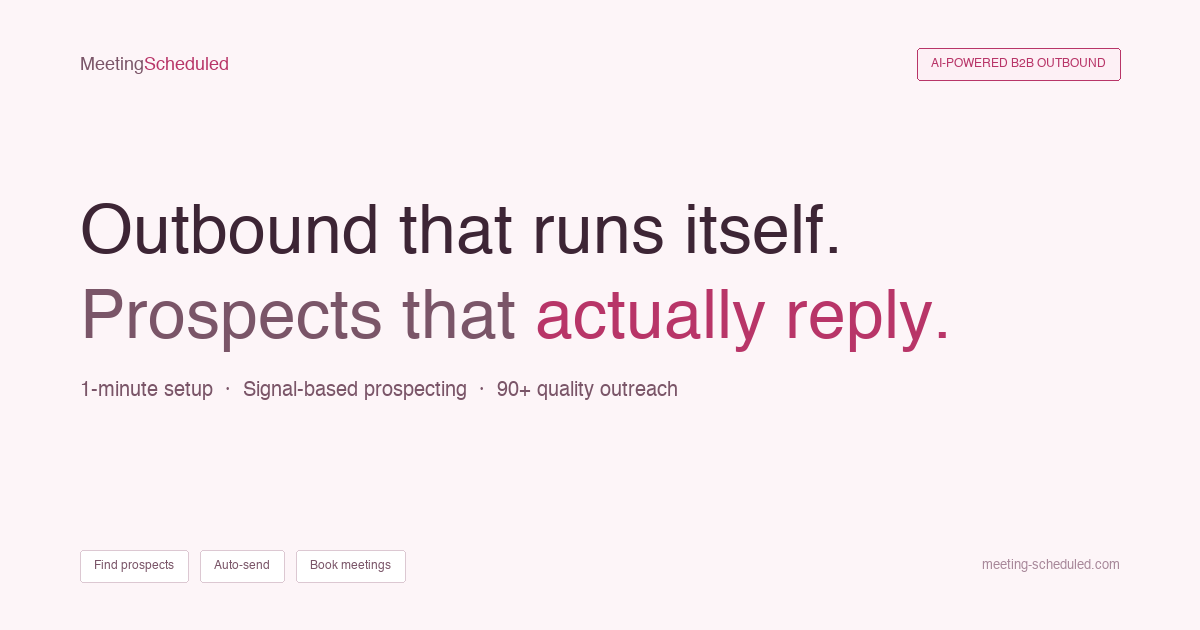
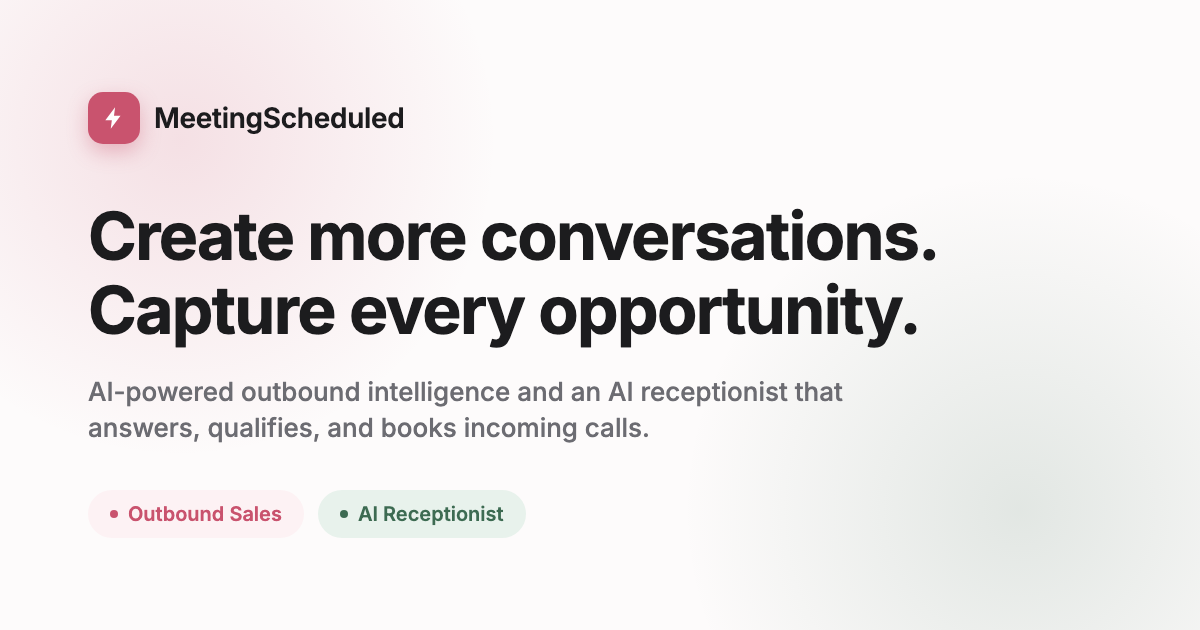
Stronger Outbound headline, clean classic nav, live chat on homepage, new OG image
- Outbound Sales hero: "Know who to contact, why now, and what to say." ->
  "From Conversations to Conversions." (ties into the homepage's
  conversation-as-conversion-point theme). Twitter description updated to
  match.
- classic/: removed the top nav's How it works / Why it's different / Book
  a demo links (kept Login + Start in 1 Minute); nav-links div left empty
  rather than removed so the 3-column grid layout stays intact.
- index.html: added the Crisp live-chat widget (same snippet/website ID
  already live on classic/), scoped to the homepage only as requested.
- og-image.png: regenerated to reflect the new umbrella positioning
  (headline + Outbound Sales / AI Receptionist tags) instead of the old
  single-product image, so home/outbound/receptionist link previews match
  current content. classic/ keeps its own preserved original image
  (classic/og-image-classic.png) since its title/description still
  describe the old positioning and would look mismatched otherwise.

diff --git a/classic/index.html b/classic/index.html
@@ -13,7 +13,7 @@
 <meta property="og:title" content="MeetingScheduled — Outbound That Runs Itself (Classic)">
 <meta property="og:description" content="Connect Gmail, define your ICP, and MeetingScheduled finds prospects, generates signal-led outreach, and sends automatically. 1-minute setup. 90+ quality standard.">
 <meta property="og:url" content="https://www.meeting-scheduled.com/classic/">
-<meta property="og:image" content="https://www.meeting-scheduled.com/og-image.png">
+<meta property="og:image" content="https://www.meeting-scheduled.com/classic/og-image-classic.png">
 <meta property="og:image:width" content="1200">
 <meta property="og:image:height" content="630">
 
@@ -21,7 +21,7 @@
 <meta name="twitter:card" content="summary_large_image">
 <meta name="twitter:title" content="MeetingScheduled — Outbound That Runs Itself (Classic)">
 <meta name="twitter:description" content="Connect Gmail, define your ICP, and MeetingScheduled finds prospects, generates signal-led outreach, and sends automatically.">
-<meta name="twitter:image" content="https://www.meeting-scheduled.com/og-image.png">
+<meta name="twitter:image" content="https://www.meeting-scheduled.com/classic/og-image-classic.png">
 
 <link rel="icon" type="image/svg+xml" href="/logo.svg">
 <link rel="canonical" href="https://www.meeting-scheduled.com/classic/">
@@ -964,11 +964,7 @@ footer{padding:32px 48px;border-top:1px solid var(--border);display:grid;grid-te
 
 <nav>
   <a href="#" class="nav-logo" aria-label="MeetingScheduled">Meeting<span>Scheduled</span></a>
-  <div class="nav-links">
-    <a href="#product">How it works</a>
-    <a href="#pillars">Why it's different</a>
-    <a href="https://cal.com/meeting-scheduled/30min" target="_blank" rel="noopener">Book a demo</a>
-  </div>
+  <div class="nav-links"></div>
   <div class="nav-cta">
     <a href="https://reach.meeting-scheduled.com" class="nav-login">Login</a>
     <a href="https://cal.com/meeting-scheduled/30min" target="_blank" rel="noopener" class="btn-primary" data-experience-open>Start in 1 Minute</a>

diff --git a/outbound/index.html b/outbound/index.html
@@ -18,7 +18,7 @@
 
 <meta name="twitter:card" content="summary_large_image">
 <meta name="twitter:title" content="Outbound Sales — MeetingScheduled">
-<meta name="twitter:description" content="Know who to contact, why now, and what to say.">
+<meta name="twitter:description" content="From Conversations to Conversions.">
 <meta name="twitter:image" content="https://www.meeting-scheduled.com/og-image.png">
 
 <link rel="icon" type="image/svg+xml" href="/logo.svg">
@@ -199,7 +199,7 @@ footer{border-top:1px solid var(--border-subtle);background:var(--canvas);}
     <div class="hero-glow" aria-hidden="true"></div>
     <div class="container hero-inner">
       <p class="eyebrow">MeetingScheduled Outbound Sales</p>
-      <h1>Know who to contact, why now, and what to say.</h1>
+      <h1>From Conversations to Conversions.</h1>
       <p class="lede">MeetingScheduled researches your market, identifies accounts and buying signals worth acting on, investigates each prospect, and turns that context into outreach that reads like someone actually did the homework.</p>
       <div class="btn-row">
         <a href="https://cal.com/meeting-scheduled/30min" target="_blank" rel="noopener" class="btn btn-rose">Book a Demo</a>

diff --git a/index.html b/index.html
@@ -474,5 +474,7 @@ document.querySelectorAll('a[href^="#"]').forEach(a => {
 });
 </script>
 
+<script type="text/javascript">window.$crisp=[];window.CRISP_WEBSITE_ID="345c5509-5794-4f9b-9fca-729075f9eea3";(function(){d=document;s=d.createElement("script");s.src="https://client.crisp.chat/l.js";s.async=1;d.getElementsByTagName("head")[0].appendChild(s);})();</script>
+
 </body>
 </html>
